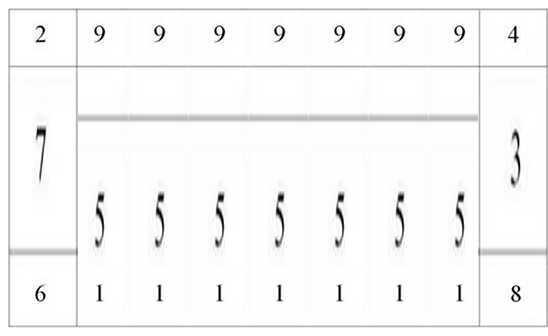
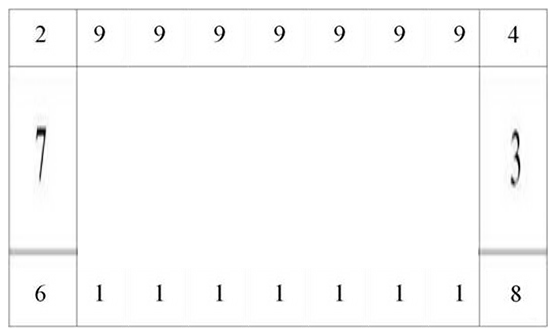
border image

diff --git a/demos/phantom-support.html b/demos/phantom-support.html
@@ -1,0 +1,6 @@
+<script>
+/* Modernizr 2.8.3 (Custom Build) | MIT & BSD
+ * Build: http://modernizr.com/download/#-fontface-backgroundsize-borderimage-borderradius-boxshadow-flexbox-flexboxlegacy-hsla-multiplebgs-opacity-rgba-textshadow-cssanimations-csscolumns-generatedcontent-cssgradients-cssreflections-csstransforms-csstransforms3d-csstransitions-applicationcache-canvas-canvastext-draganddrop-hashchange-history-audio-video-indexeddb-input-inputtypes-localstorage-postmessage-sessionstorage-websockets-websqldatabase-webworkers-geolocation-inlinesvg-smil-svg-svgclippaths-touch-webgl-shiv-mq-cssclasses-addtest-prefixed-teststyles-testprop-testallprops-hasevent-prefixes-domprefixes-load
+ */
+;window.Modernizr=function(a,b,c){function D(a){j.cssText=a}function E(a,b){return D(n.join(a+";")+(b||""))}function F(a,b){return typeof a===b}function G(a,b){return!!~(""+a).indexOf(b)}function H(a,b){for(var d in a){var e=a[d];if(!G(e,"-")&&j[e]!==c)return b=="pfx"?e:!0}return!1}function I(a,b,d){for(var e in a){var f=b[a[e]];if(f!==c)return d===!1?a[e]:F(f,"function")?f.bind(d||b):f}return!1}function J(a,b,c){var d=a.charAt(0).toUpperCase()+a.slice(1),e=(a+" "+p.join(d+" ")+d).split(" ");return F(b,"string")||F(b,"undefined")?H(e,b):(e=(a+" "+q.join(d+" ")+d).split(" "),I(e,b,c))}function K(){e.input=function(c){for(var d=0,e=c.length;d<e;d++)u[c[d]]=c[d]in k;return u.list&&(u.list=!!b.createElement("datalist")&&!!a.HTMLDataListElement),u}("autocomplete autofocus list placeholder max min multiple pattern required step".split(" ")),e.inputtypes=function(a){for(var d=0,e,f,h,i=a.length;d<i;d++)k.setAttribute("type",f=a[d]),e=k.type!=="text",e&&(k.value=l,k.style.cssText="position:absolute;visibility:hidden;",/^range$/.test(f)&&k.style.WebkitAppearance!==c?(g.appendChild(k),h=b.defaultView,e=h.getComputedStyle&&h.getComputedStyle(k,null).WebkitAppearance!=="textfield"&&k.offsetHeight!==0,g.removeChild(k)):/^(search|tel)$/.test(f)||(/^(url|email)$/.test(f)?e=k.checkValidity&&k.checkValidity()===!1:e=k.value!=l)),t[a[d]]=!!e;return t}("search tel url email datetime date month week time datetime-local number range color".split(" "))}var d="2.8.3",e={},f=!0,g=b.documentElement,h="modernizr",i=b.createElement(h),j=i.style,k=b.createElement("input"),l=":)",m={}.toString,n=" -webkit- -moz- -o- -ms- ".split(" "),o="Webkit Moz O ms",p=o.split(" "),q=o.toLowerCase().split(" "),r={svg:"http://www.w3.org/2000/svg"},s={},t={},u={},v=[],w=v.slice,x,y=function(a,c,d,e){var f,i,j,k,l=b.createElement("div"),m=b.body,n=m||b.createElement("body");if(parseInt(d,10))while(d--)j=b.createElement("div"),j.id=e?e[d]:h+(d+1),l.appendChild(j);return f=["&#173;",'<style id="s',h,'">',a,"</style>"].join(""),l.id=h,(m?l:n).innerHTML+=f,n.appendChild(l),m||(n.style.background="",n.style.overflow="hidden",k=g.style.overflow,g.style.overflow="hidden",g.appendChild(n)),i=c(l,a),m?l.parentNode.removeChild(l):(n.parentNode.removeChild(n),g.style.overflow=k),!!i},z=function(b){var c=a.matchMedia||a.msMatchMedia;if(c)return c(b)&&c(b).matches||!1;var d;return y("@media "+b+" { #"+h+" { position: absolute; } }",function(b){d=(a.getComputedStyle?getComputedStyle(b,null):b.currentStyle)["position"]=="absolute"}),d},A=function(){function d(d,e){e=e||b.createElement(a[d]||"div"),d="on"+d;var f=d in e;return f||(e.setAttribute||(e=b.createElement("div")),e.setAttribute&&e.removeAttribute&&(e.setAttribute(d,""),f=F(e[d],"function"),F(e[d],"undefined")||(e[d]=c),e.removeAttribute(d))),e=null,f}var a={select:"input",change:"input",submit:"form",reset:"form",error:"img",load:"img",abort:"img"};return d}(),B={}.hasOwnProperty,C;!F(B,"undefined")&&!F(B.call,"undefined")?C=function(a,b){return B.call(a,b)}:C=function(a,b){return b in a&&F(a.constructor.prototype[b],"undefined")},Function.prototype.bind||(Function.prototype.bind=function(b){var c=this;if(typeof c!="function")throw new TypeError;var d=w.call(arguments,1),e=function(){if(this instanceof e){var a=function(){};a.prototype=c.prototype;var f=new a,g=c.apply(f,d.concat(w.call(arguments)));return Object(g)===g?g:f}return c.apply(b,d.concat(w.call(arguments)))};return e}),s.flexbox=function(){return J("flexWrap")},s.flexboxlegacy=function(){return J("boxDirection")},s.canvas=function(){var a=b.createElement("canvas");return!!a.getContext&&!!a.getContext("2d")},s.canvastext=function(){return!!e.canvas&&!!F(b.createElement("canvas").getContext("2d").fillText,"function")},s.webgl=function(){return!!a.WebGLRenderingContext},s.touch=function(){var c;return"ontouchstart"in a||a.DocumentTouch&&b instanceof DocumentTouch?c=!0:y(["@media (",n.join("touch-enabled),("),h,")","{#modernizr{top:9px;position:absolute}}"].join(""),function(a){c=a.offsetTop===9}),c},s.geolocation=function(){return"geolocation"in navigator},s.postmessage=function(){return!!a.postMessage},s.websqldatabase=function(){return!!a.openDatabase},s.indexedDB=function(){return!!J("indexedDB",a)},s.hashchange=function(){return A("hashchange",a)&&(b.documentMode===c||b.documentMode>7)},s.history=function(){return!!a.history&&!!history.pushState},s.draganddrop=function(){var a=b.createElement("div");return"draggable"in a||"ondragstart"in a&&"ondrop"in a},s.websockets=function(){return"WebSocket"in a||"MozWebSocket"in a},s.rgba=function(){return D("background-color:rgba(150,255,150,.5)"),G(j.backgroundColor,"rgba")},s.hsla=function(){return D("background-color:hsla(120,40%,100%,.5)"),G(j.backgroundColor,"rgba")||G(j.backgroundColor,"hsla")},s.multiplebgs=function(){return D("background:url(https://),url(https://),red url(https://)"),/(url\s*\(.*?){3}/.test(j.background)},s.backgroundsize=function(){return J("backgroundSize")},s.borderimage=function(){return J("borderImage")},s.borderradius=function(){return J("borderRadius")},s.boxshadow=function(){return J("boxShadow")},s.textshadow=function(){return b.createElement("div").style.textShadow===""},s.opacity=function(){return E("opacity:.55"),/^0.55$/.test(j.opacity)},s.cssanimations=function(){return J("animationName")},s.csscolumns=function(){return J("columnCount")},s.cssgradients=function(){var a="background-image:",b="gradient(linear,left top,right bottom,from(#9f9),to(white));",c="linear-gradient(left top,#9f9, white);";return D((a+"-webkit- ".split(" ").join(b+a)+n.join(c+a)).slice(0,-a.length)),G(j.backgroundImage,"gradient")},s.cssreflections=function(){return J("boxReflect")},s.csstransforms=function(){return!!J("transform")},s.csstransforms3d=function(){var a=!!J("perspective");return a&&"webkitPerspective"in g.style&&y("@media (transform-3d),(-webkit-transform-3d){#modernizr{left:9px;position:absolute;height:3px;}}",function(b,c){a=b.offsetLeft===9&&b.offsetHeight===3}),a},s.csstransitions=function(){return J("transition")},s.fontface=function(){var a;return y('@font-face {font-family:"font";src:url("https://")}',function(c,d){var e=b.getElementById("smodernizr"),f=e.sheet||e.styleSheet,g=f?f.cssRules&&f.cssRules[0]?f.cssRules[0].cssText:f.cssText||"":"";a=/src/i.test(g)&&g.indexOf(d.split(" ")[0])===0}),a},s.generatedcontent=function(){var a;return y(["#",h,"{font:0/0 a}#",h,':after{content:"',l,'";visibility:hidden;font:3px/1 a}'].join(""),function(b){a=b.offsetHeight>=3}),a},s.video=function(){var a=b.createElement("video"),c=!1;try{if(c=!!a.canPlayType)c=new Boolean(c),c.ogg=a.canPlayType('video/ogg; codecs="theora"').replace(/^no$/,""),c.h264=a.canPlayType('video/mp4; codecs="avc1.42E01E"').replace(/^no$/,""),c.webm=a.canPlayType('video/webm; codecs="vp8, vorbis"').replace(/^no$/,"")}catch(d){}return c},s.audio=function(){var a=b.createElement("audio"),c=!1;try{if(c=!!a.canPlayType)c=new Boolean(c),c.ogg=a.canPlayType('audio/ogg; codecs="vorbis"').replace(/^no$/,""),c.mp3=a.canPlayType("audio/mpeg;").replace(/^no$/,""),c.wav=a.canPlayType('audio/wav; codecs="1"').replace(/^no$/,""),c.m4a=(a.canPlayType("audio/x-m4a;")||a.canPlayType("audio/aac;")).replace(/^no$/,"")}catch(d){}return c},s.localstorage=function(){try{return localStorage.setItem(h,h),localStorage.removeItem(h),!0}catch(a){return!1}},s.sessionstorage=function(){try{return sessionStorage.setItem(h,h),sessionStorage.removeItem(h),!0}catch(a){return!1}},s.webworkers=function(){return!!a.Worker},s.applicationcache=function(){return!!a.applicationCache},s.svg=function(){return!!b.createElementNS&&!!b.createElementNS(r.svg,"svg").createSVGRect},s.inlinesvg=function(){var a=b.createElement("div");return a.innerHTML="<svg/>",(a.firstChild&&a.firstChild.namespaceURI)==r.svg},s.smil=function(){return!!b.createElementNS&&/SVGAnimate/.test(m.call(b.createElementNS(r.svg,"animate")))},s.svgclippaths=function(){return!!b.createElementNS&&/SVGClipPath/.test(m.call(b.createElementNS(r.svg,"clipPath")))};for(var L in s)C(s,L)&&(x=L.toLowerCase(),e[x]=s[L](),v.push((e[x]?"":"no-")+x));return e.input||K(),e.addTest=function(a,b){if(typeof a=="object")for(var d in a)C(a,d)&&e.addTest(d,a[d]);else{a=a.toLowerCase();if(e[a]!==c)return e;b=typeof b=="function"?b():b,typeof f!="undefined"&&f&&(g.className+=" "+(b?"":"no-")+a),e[a]=b}return e},D(""),i=k=null,function(a,b){function l(a,b){var c=a.createElement("p"),d=a.getElementsByTagName("head")[0]||a.documentElement;return c.innerHTML="x<style>"+b+"</style>",d.insertBefore(c.lastChild,d.firstChild)}function m(){var a=s.elements;return typeof a=="string"?a.split(" "):a}function n(a){var b=j[a[h]];return b||(b={},i++,a[h]=i,j[i]=b),b}function o(a,c,d){c||(c=b);if(k)return c.createElement(a);d||(d=n(c));var g;return d.cache[a]?g=d.cache[a].cloneNode():f.test(a)?g=(d.cache[a]=d.createElem(a)).cloneNode():g=d.createElem(a),g.canHaveChildren&&!e.test(a)&&!g.tagUrn?d.frag.appendChild(g):g}function p(a,c){a||(a=b);if(k)return a.createDocumentFragment();c=c||n(a);var d=c.frag.cloneNode(),e=0,f=m(),g=f.length;for(;e<g;e++)d.createElement(f[e]);return d}function q(a,b){b.cache||(b.cache={},b.createElem=a.createElement,b.createFrag=a.createDocumentFragment,b.frag=b.createFrag()),a.createElement=function(c){return s.shivMethods?o(c,a,b):b.createElem(c)},a.createDocumentFragment=Function("h,f","return function(){var n=f.cloneNode(),c=n.createElement;h.shivMethods&&("+m().join().replace(/[\w\-]+/g,function(a){return b.createElem(a),b.frag.createElement(a),'c("'+a+'")'})+");return n}")(s,b.frag)}function r(a){a||(a=b);var c=n(a);return s.shivCSS&&!g&&!c.hasCSS&&(c.hasCSS=!!l(a,"article,aside,dialog,figcaption,figure,footer,header,hgroup,main,nav,section{display:block}mark{background:#FF0;color:#000}template{display:none}")),k||q(a,c),a}var c="3.7.0",d=a.html5||{},e=/^<|^(?:button|map|select|textarea|object|iframe|option|optgroup)$/i,f=/^(?:a|b|code|div|fieldset|h1|h2|h3|h4|h5|h6|i|label|li|ol|p|q|span|strong|style|table|tbody|td|th|tr|ul)$/i,g,h="_html5shiv",i=0,j={},k;(function(){try{var a=b.createElement("a");a.innerHTML="<xyz></xyz>",g="hidden"in a,k=a.childNodes.length==1||function(){b.createElement("a");var a=b.createDocumentFragment();return typeof a.cloneNode=="undefined"||typeof a.createDocumentFragment=="undefined"||typeof a.createElement=="undefined"}()}catch(c){g=!0,k=!0}})();var s={elements:d.elements||"abbr article aside audio bdi canvas data datalist details dialog figcaption figure footer header hgroup main mark meter nav output progress section summary template time video",version:c,shivCSS:d.shivCSS!==!1,supportsUnknownElements:k,shivMethods:d.shivMethods!==!1,type:"default",shivDocument:r,createElement:o,createDocumentFragment:p};a.html5=s,r(b)}(this,b),e._version=d,e._prefixes=n,e._domPrefixes=q,e._cssomPrefixes=p,e.mq=z,e.hasEvent=A,e.testProp=function(a){return H([a])},e.testAllProps=J,e.testStyles=y,e.prefixed=function(a,b,c){return b?J(a,b,c):J(a,"pfx")},g.className=g.className.replace(/(^|\s)no-js(\s|$)/,"$1$2")+(f?" js "+v.join(" "):""),e}(this,this.document),function(a,b,c){function d(a){return"[object Function]"==o.call(a)}function e(a){return"string"==typeof a}function f(){}function g(a){return!a||"loaded"==a||"complete"==a||"uninitialized"==a}function h(){var a=p.shift();q=1,a?a.t?m(function(){("c"==a.t?B.injectCss:B.injectJs)(a.s,0,a.a,a.x,a.e,1)},0):(a(),h()):q=0}function i(a,c,d,e,f,i,j){function k(b){if(!o&&g(l.readyState)&&(u.r=o=1,!q&&h(),l.onload=l.onreadystatechange=null,b)){"img"!=a&&m(function(){t.removeChild(l)},50);for(var d in y[c])y[c].hasOwnProperty(d)&&y[c][d].onload()}}var j=j||B.errorTimeout,l=b.createElement(a),o=0,r=0,u={t:d,s:c,e:f,a:i,x:j};1===y[c]&&(r=1,y[c]=[]),"object"==a?l.data=c:(l.src=c,l.type=a),l.width=l.height="0",l.onerror=l.onload=l.onreadystatechange=function(){k.call(this,r)},p.splice(e,0,u),"img"!=a&&(r||2===y[c]?(t.insertBefore(l,s?null:n),m(k,j)):y[c].push(l))}function j(a,b,c,d,f){return q=0,b=b||"j",e(a)?i("c"==b?v:u,a,b,this.i++,c,d,f):(p.splice(this.i++,0,a),1==p.length&&h()),this}function k(){var a=B;return a.loader={load:j,i:0},a}var l=b.documentElement,m=a.setTimeout,n=b.getElementsByTagName("script")[0],o={}.toString,p=[],q=0,r="MozAppearance"in l.style,s=r&&!!b.createRange().compareNode,t=s?l:n.parentNode,l=a.opera&&"[object Opera]"==o.call(a.opera),l=!!b.attachEvent&&!l,u=r?"object":l?"script":"img",v=l?"script":u,w=Array.isArray||function(a){return"[object Array]"==o.call(a)},x=[],y={},z={timeout:function(a,b){return b.length&&(a.timeout=b[0]),a}},A,B;B=function(a){function b(a){var a=a.split("!"),b=x.length,c=a.pop(),d=a.length,c={url:c,origUrl:c,prefixes:a},e,f,g;for(f=0;f<d;f++)g=a[f].split("="),(e=z[g.shift()])&&(c=e(c,g));for(f=0;f<b;f++)c=x[f](c);return c}function g(a,e,f,g,h){var i=b(a),j=i.autoCallback;i.url.split(".").pop().split("?").shift(),i.bypass||(e&&(e=d(e)?e:e[a]||e[g]||e[a.split("/").pop().split("?")[0]]),i.instead?i.instead(a,e,f,g,h):(y[i.url]?i.noexec=!0:y[i.url]=1,f.load(i.url,i.forceCSS||!i.forceJS&&"css"==i.url.split(".").pop().split("?").shift()?"c":c,i.noexec,i.attrs,i.timeout),(d(e)||d(j))&&f.load(function(){k(),e&&e(i.origUrl,h,g),j&&j(i.origUrl,h,g),y[i.url]=2})))}function h(a,b){function c(a,c){if(a){if(e(a))c||(j=function(){var a=[].slice.call(arguments);k.apply(this,a),l()}),g(a,j,b,0,h);else if(Object(a)===a)for(n in m=function(){var b=0,c;for(c in a)a.hasOwnProperty(c)&&b++;return b}(),a)a.hasOwnProperty(n)&&(!c&&!--m&&(d(j)?j=function(){var a=[].slice.call(arguments);k.apply(this,a),l()}:j[n]=function(a){return function(){var b=[].slice.call(arguments);a&&a.apply(this,b),l()}}(k[n])),g(a[n],j,b,n,h))}else!c&&l()}var h=!!a.test,i=a.load||a.both,j=a.callback||f,k=j,l=a.complete||f,m,n;c(h?a.yep:a.nope,!!i),i&&c(i)}var i,j,l=this.yepnope.loader;if(e(a))g(a,0,l,0);else if(w(a))for(i=0;i<a.length;i++)j=a[i],e(j)?g(j,0,l,0):w(j)?B(j):Object(j)===j&&h(j,l);else Object(a)===a&&h(a,l)},B.addPrefix=function(a,b){z[a]=b},B.addFilter=function(a){x.push(a)},B.errorTimeout=1e4,null==b.readyState&&b.addEventListener&&(b.readyState="loading",b.addEventListener("DOMContentLoaded",A=function(){b.removeEventListener("DOMContentLoaded",A,0),b.readyState="complete"},0)),a.yepnope=k(),a.yepnope.executeStack=h,a.yepnope.injectJs=function(a,c,d,e,i,j){var k=b.createElement("script"),l,o,e=e||B.errorTimeout;k.src=a;for(o in d)k.setAttribute(o,d[o]);c=j?h:c||f,k.onreadystatechange=k.onload=function(){!l&&g(k.readyState)&&(l=1,c(),k.onload=k.onreadystatechange=null)},m(function(){l||(l=1,c(1))},e),i?k.onload():n.parentNode.insertBefore(k,n)},a.yepnope.injectCss=function(a,c,d,e,g,i){var e=b.createElement("link"),j,c=i?h:c||f;e.href=a,e.rel="stylesheet",e.type="text/css";for(j in d)e.setAttribute(j,d[j]);g||(n.parentNode.insertBefore(e,n),m(c,0))}}(this,document),Modernizr.load=function(){yepnope.apply(window,[].slice.call(arguments,0))};
+</script>

diff --git a/site/blogs/CSS border-image.html b/site/blogs/CSS border-image.html
@@ -172,6 +172,8 @@ CSS border-image</div><div class="content"><!-- config.time: 2015-08-27 -->
 <li>2、图片裁剪尺寸。即示例中的 <code>60 70</code>。裁剪尺寸遵循 <code>top-right-bottom-left</code> 规则，其数值可以是百分数，也可以是像素值。如果是像素值，则不能带单位，直接写数值就好了，示例中<code>60 70</code>的含义为：对图片实施裁剪，图片上部和下部分别裁掉60px，左部和右部分别裁掉70px，于是图片就形成9块，四个边角块是无法运用round（平铺）等效果的，中间那一块是没用的。如果为百分数，则是根据图片的尺寸来计算出相应的像素值的；</li>
 <li>3、图片可运用效果区域的展示效果。取值为 [round|repeat|stretch] 。正如2中所述，图片会被裁剪成9块，而这个展示效果只能运用于上、右、下、左的中间那一块。</li>
 </ul>
+<p><code>-webkit-border-image</code> 是有 bug 的，它会用裁剪后的9块图片的中间那一张覆盖掉背景。如下所示：</p>
+<div class="demo" name="-webkit-border-image.html"></div>
 <div data-thread-key="CSS border-image" data-title="CSS border-image" data-url="http://yibuyisheng.github.io/blogs/site/blogs/CSS border-image.html" class="ds-thread"></div></div></div><script type="text/javascript">var duoshuoQuery = {short_name:"yibuyishengblogs"};
 (function() {
     var ds = document.createElement('script');

diff --git a/gulpfile.js b/gulpfile.js
@@ -112,6 +112,21 @@ gulp.task('demos', function (doneFn) {
     }), doneFn);
 });
 
+gulp.task('phantom-support', function (doneFn) {
+    phantom.create(function (ph) {
+        ph.createPage(function (page) {
+            page.open('http://modernizr.com/docs/#s2', function (status) {
+                if (status === 'success') {
+                    page.render('./demos/phantom-support.png');
+                }
+
+                ph.exit();
+                doneFn();
+            });
+        });
+    });
+});
+
 gulp.task('watch-demos', function () {
     gulp.watch('./demos/**/*.html', ['demos']);
 });

diff --git a/demos/border-image.html b/demos/border-image.html
@@ -1,13 +1,12 @@
 <style>
-.demo1 {
+.border-image-demo {
     display: inline-block;
     width: 400px;
     height: 200px;
 
     border-width: 60px 70px;
     border-image: url(../imgs/8.jpg) 60 70 round stretch;
-    -webkit-border-image: url(../imgs/8.jpg) 60 70 round stretch;
 }
 </style>
 
-<div class="demo1"></div>
+<div class="border-image-demo"></div>

diff --git a/demos/-webkit-border-image.html b/demos/-webkit-border-image.html
@@ -1,0 +1,13 @@
+<style>
+.-webkit-border-image-demo {
+    display: inline-block;
+    width: 400px;
+    height: 200px;
+
+    border-width: 60px 70px;
+    -webkit-border-image: url(../imgs/8.jpg) 60 70 round stretch;
+    background-color: red;
+}
+</style>
+
+<div class="-webkit-border-image-demo"></div>
